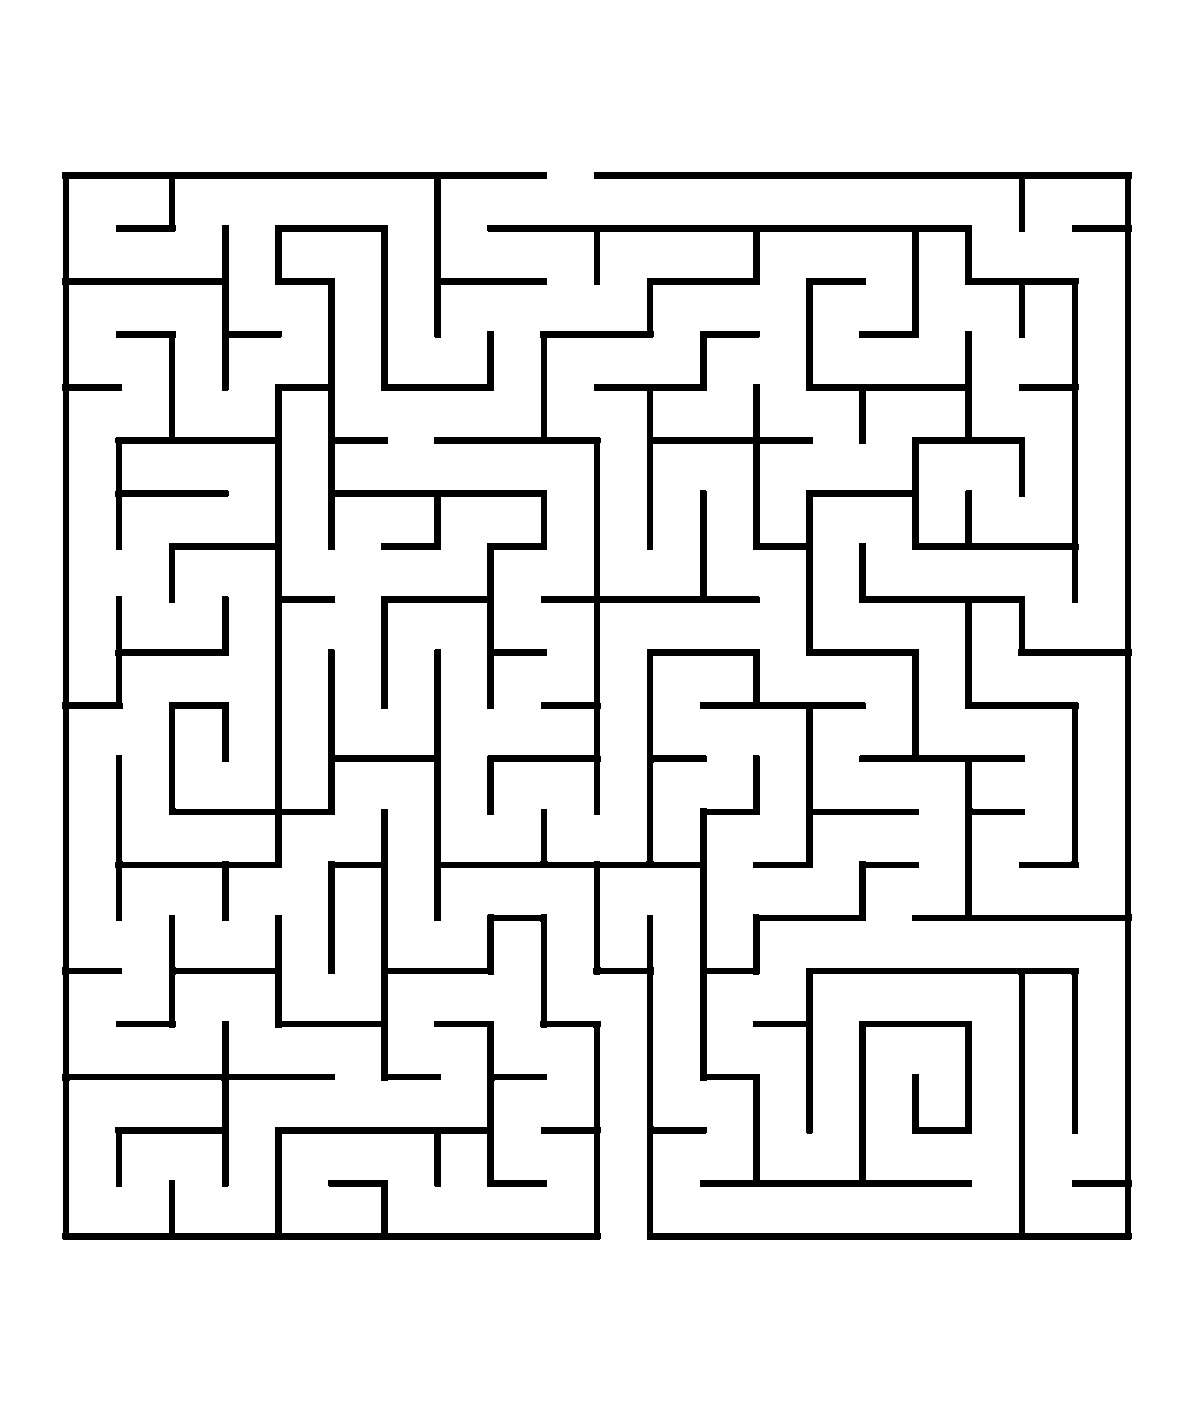
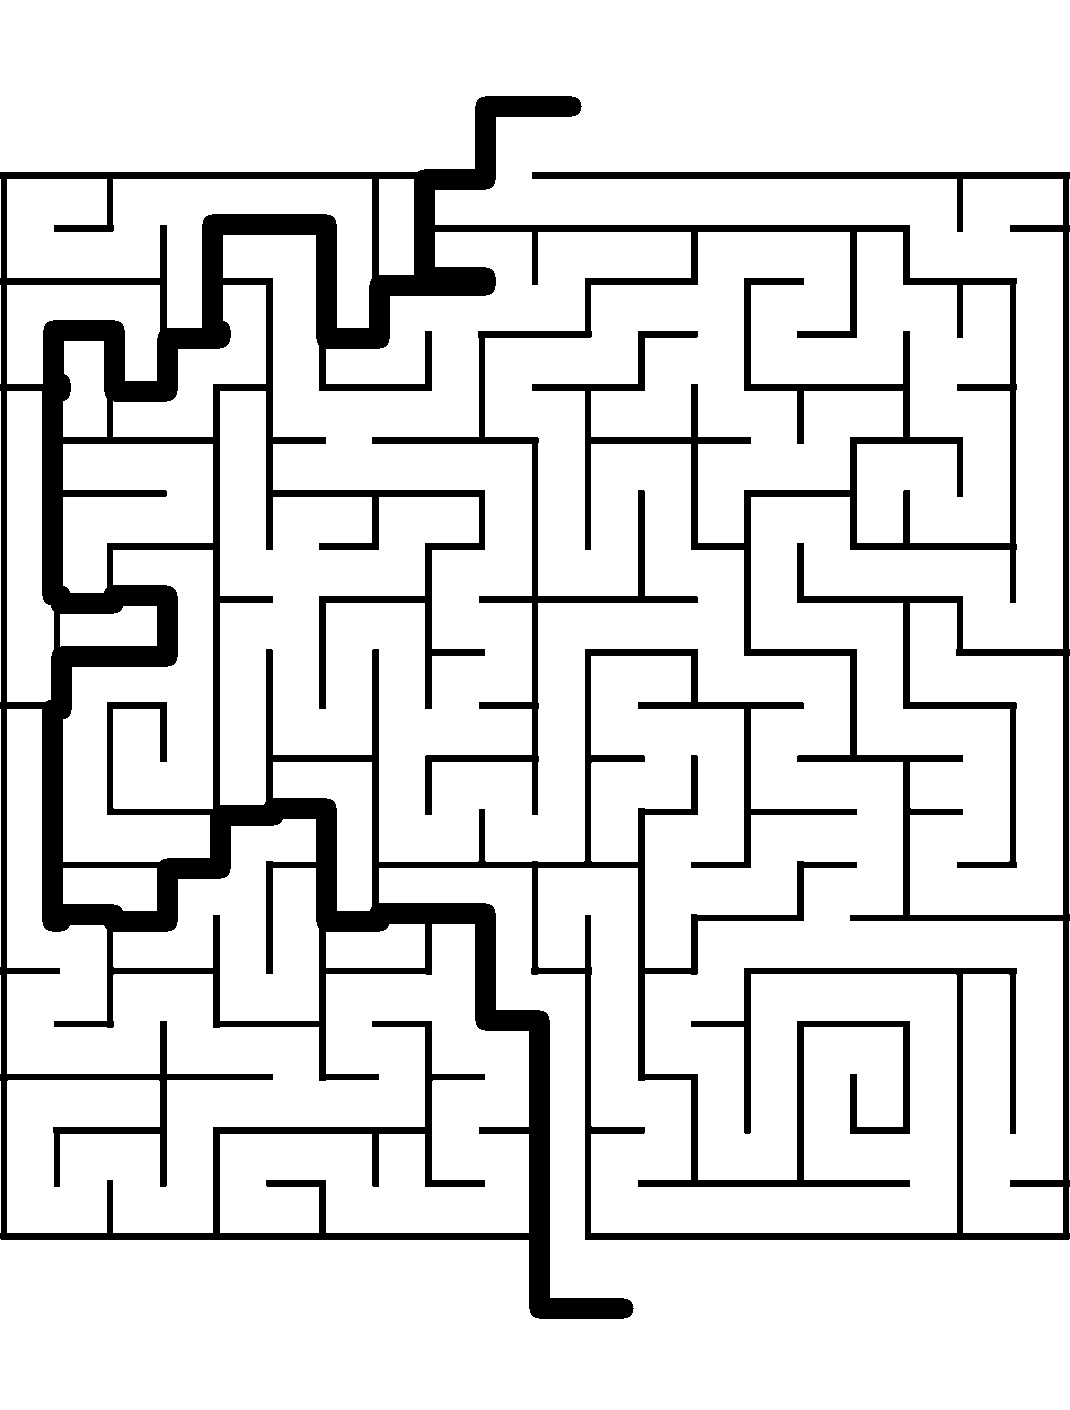
maze traced

diff --git a/jpg_maze.py b/jpg_maze.py
@@ -9,11 +9,89 @@ class JpgMaze:
     def parse_image(self, filename):
         maze_image = self.get_maze(filename)
         start_x, start_y, orientation = self.find_arrow_center(maze_image, "red")
-        goal_x, goal_y, orientation = self.find_arrow_center(maze_image, "green")
+        end_x, end_y, orientation = self.find_arrow_center(maze_image, "green")
         self.remove_arrow_from_image(maze_image, "red")
         self.remove_arrow_from_image(maze_image, "green")
         maze_gray = self.preprocess_image(maze_image)
+        start = (start_x, start_y)
+        end = (end_x, end_y)
+        maze_gray = self.shrink_maze(maze_gray)
+
+        self.a_star_algorithm(start, end, maze_gray)
+
         cv2.imwrite(self.trials_path + 'processed_image.jpg', maze_gray)
+
+    def shrink_maze(self, maze):
+        least_row = len(maze)
+        least_col = len(maze[0])
+        highest_row = 0
+        highest_col = 0
+        for row in range(len(maze)):
+            for col in range(len(maze[row])):
+                if maze[row][col] == 0:
+                    if row < least_row:
+                        least_row = row
+                    if row > highest_row:
+                        highest_row = row
+                    if col < least_col:
+                        least_col = col
+                    if col > highest_col:
+                        highest_col = col
+
+        height, width = maze.shape[:2]
+
+
+        # calculate the left and right coordinates of the crop box
+        left = least_col
+        right = highest_col
+
+        # crop the image
+        cropped_image = maze[:, left:right+1]
+        maze = cropped_image
+        # cv2.imwrite(self.trials_path + 'crop_image.jpg', cropped_image)
+        return maze
+        # print("least_row",least_row)
+        # print("highest_row", highest_row)
+        # print("least_col", least_col)
+        # print("highest_col", highest_col)
+    def a_star_algorithm(self, start, end, maze_gray):
+        # Implement A* algorithm
+        visited = set()
+        queue = [(self.heuristic(start, end), 0, start, [])]
+        while queue:
+            _, cost, cell, path = heapq.heappop(queue)
+            if cell in visited:
+                continue
+            visited.add(cell)
+            path = path + [cell]
+            if cell == end:
+                break
+            for neighbor in self.neighbors(cell, maze_gray):
+                if neighbor not in visited:
+                    neighbor_cost = cost + 1
+                    neighbor_priority = neighbor_cost + self.heuristic(neighbor, end)
+                    heapq.heappush(queue, (neighbor_priority, neighbor_cost, neighbor, path))
+
+        # Draw path on maze image
+        for i in range(len(path) - 1):
+            cv2.line(maze_gray, path[i], path[i + 1], (0, 0, 255), 20)
+
+        # Display maze image
+        cv2.imshow('Maze', maze_gray)
+        cv2.waitKey(0)
+        cv2.destroyAllWindows()
+    # Define heuristic function
+    def heuristic(self,a, b):
+        return abs(a[0] - b[0]) + abs(a[1] - b[1])
+
+    # Define neighbors function
+    def neighbors(self,cell, maze):
+        x, y = cell
+        candidates = [(x + 1, y), (x - 1, y), (x, y + 1), (x, y - 1)]
+        return [(nx, ny) for nx, ny in candidates if
+                0 <= nx < maze.shape[1] and 0 <= ny < maze.shape[0] and maze[ny, nx] == 255]
+
+
     def preprocess_image(self, image):
         image = cv2.cvtColor(image, cv2.COLOR_BGR2GRAY)
         _, maze = cv2.threshold(image, 127, 255, cv2.THRESH_BINARY)
@@ -101,7 +179,7 @@ if __name__ == '__main__':
     # jpg_maze.parse_image("maze_20_20.png")
     # jpg_maze.parse_image("test.jpg")
     jpg_maze.parse_image("new_maze.png")
-    jpg_maze.parse_image("new_maze2.png")
+    #jpg_maze.parse_image("new_maze2.png")
 
 
 
